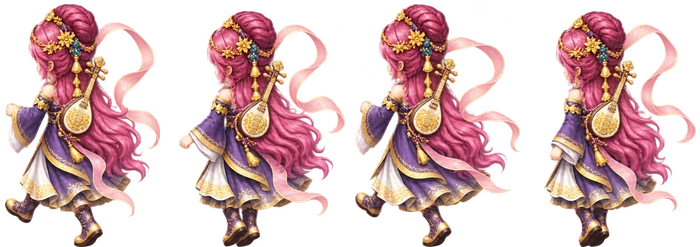
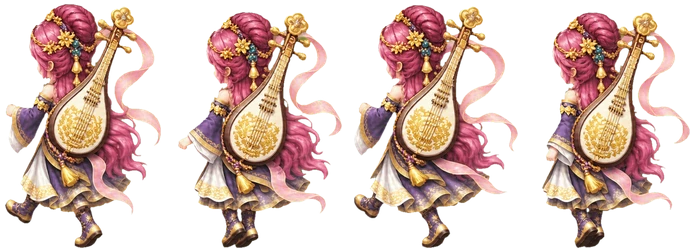
天音（女）地图背面行走帧：琵琶放大重绘
Claude-Session: https://claude.ai/code/session_01Ug7SvjxsTvGWtWQTYLfcGg

diff --git a/js/assets.js b/js/assets.js
@@ -414,9 +414,9 @@ window.ASSETS = {
    51.1038338658147
   ],
   "walk_b_dao_ty": [
-   87.5,
-   123.5,
-   45.91392405063291
+   87.0,
+   124.0,
+   46.22504230118444
   ],
   "walk_f_dao_qm": [
    97.0,
